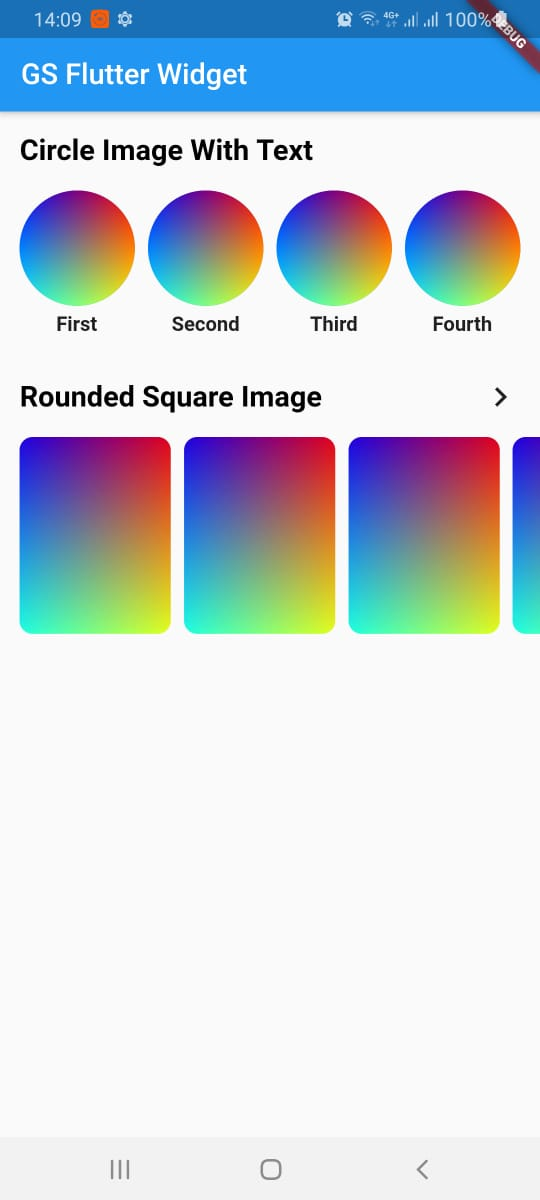
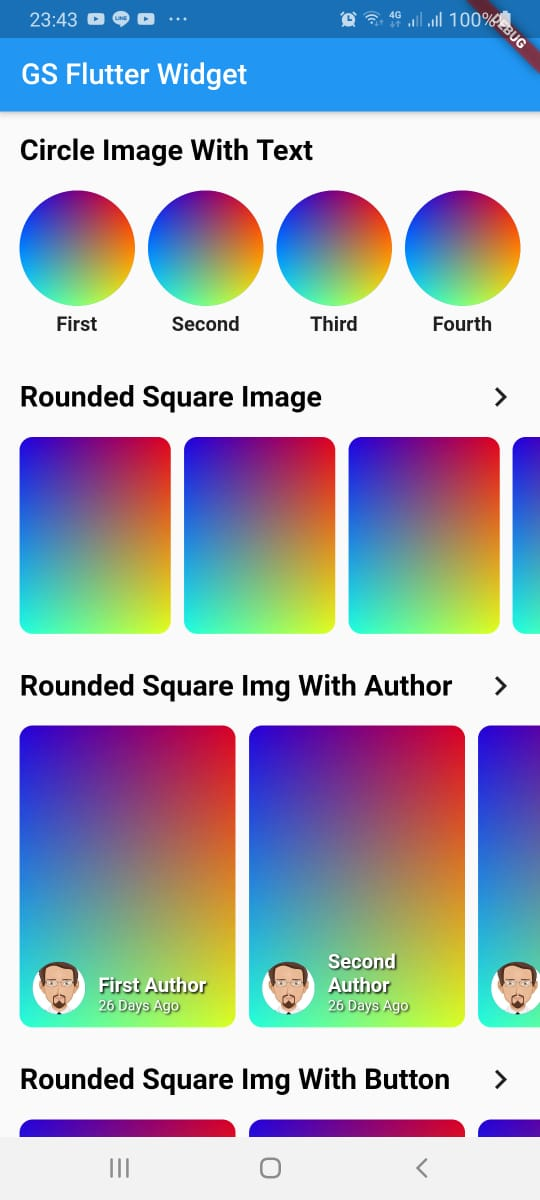
prepare for release

diff --git a/CHANGELOG.md b/CHANGELOG.md
@@ -13,3 +13,7 @@ Added roundedSquareImage widget & updated readme
 ## 0.1.2
 ___
 Updated readme
+
+## 0.1.4
+___
+Added new widgets
